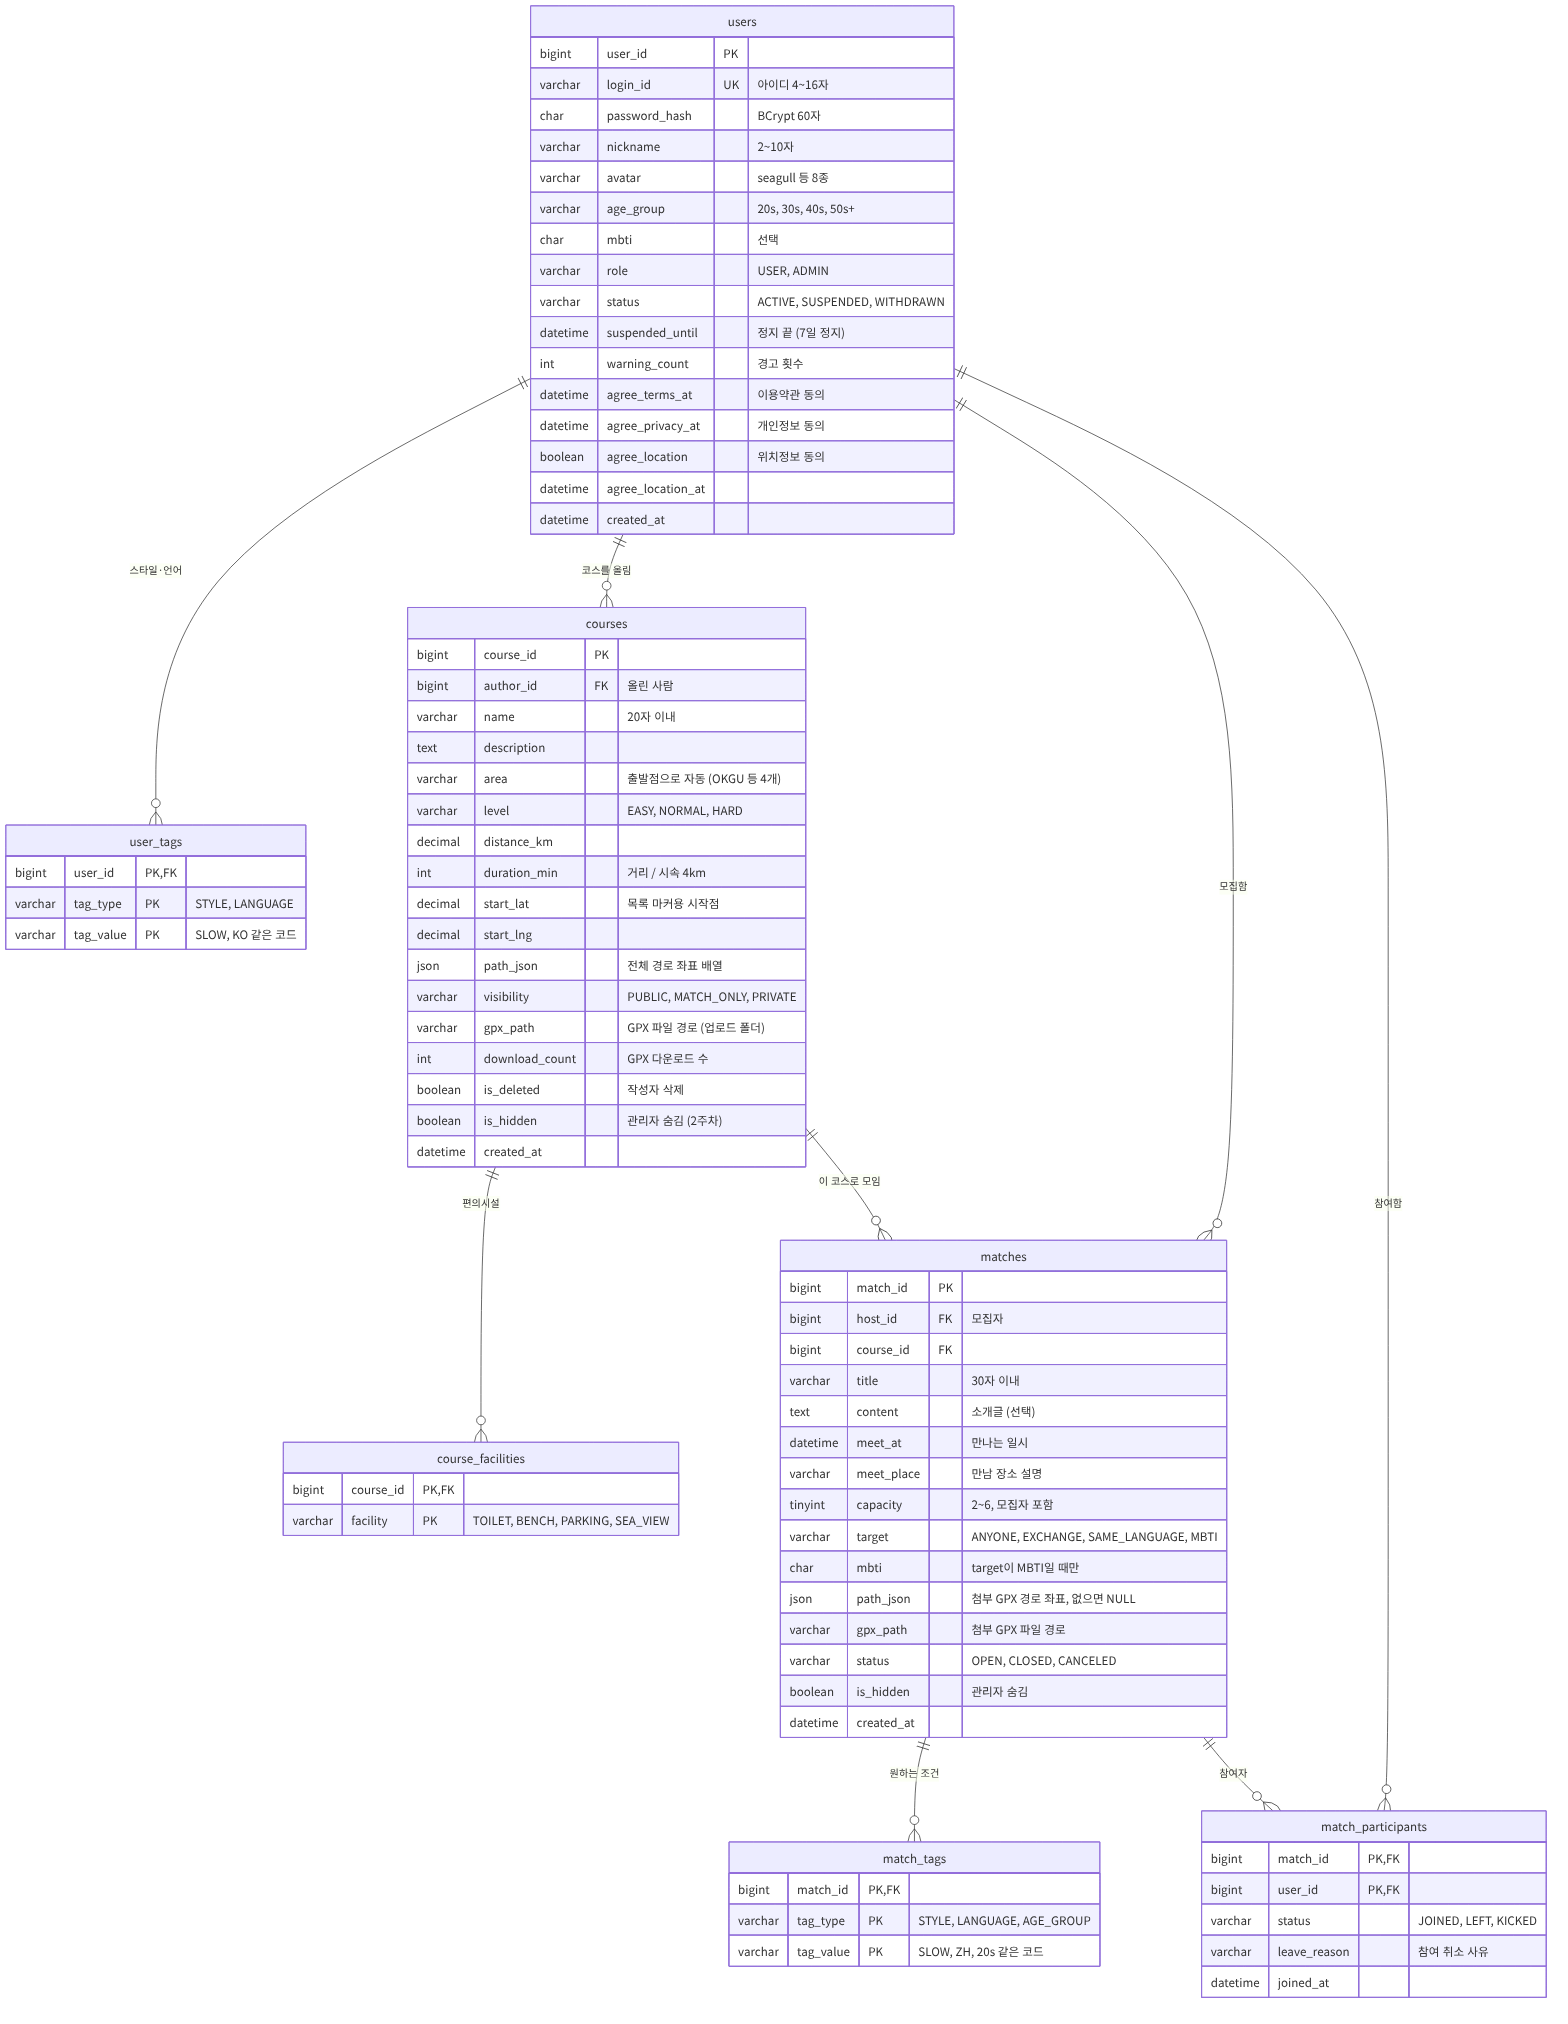
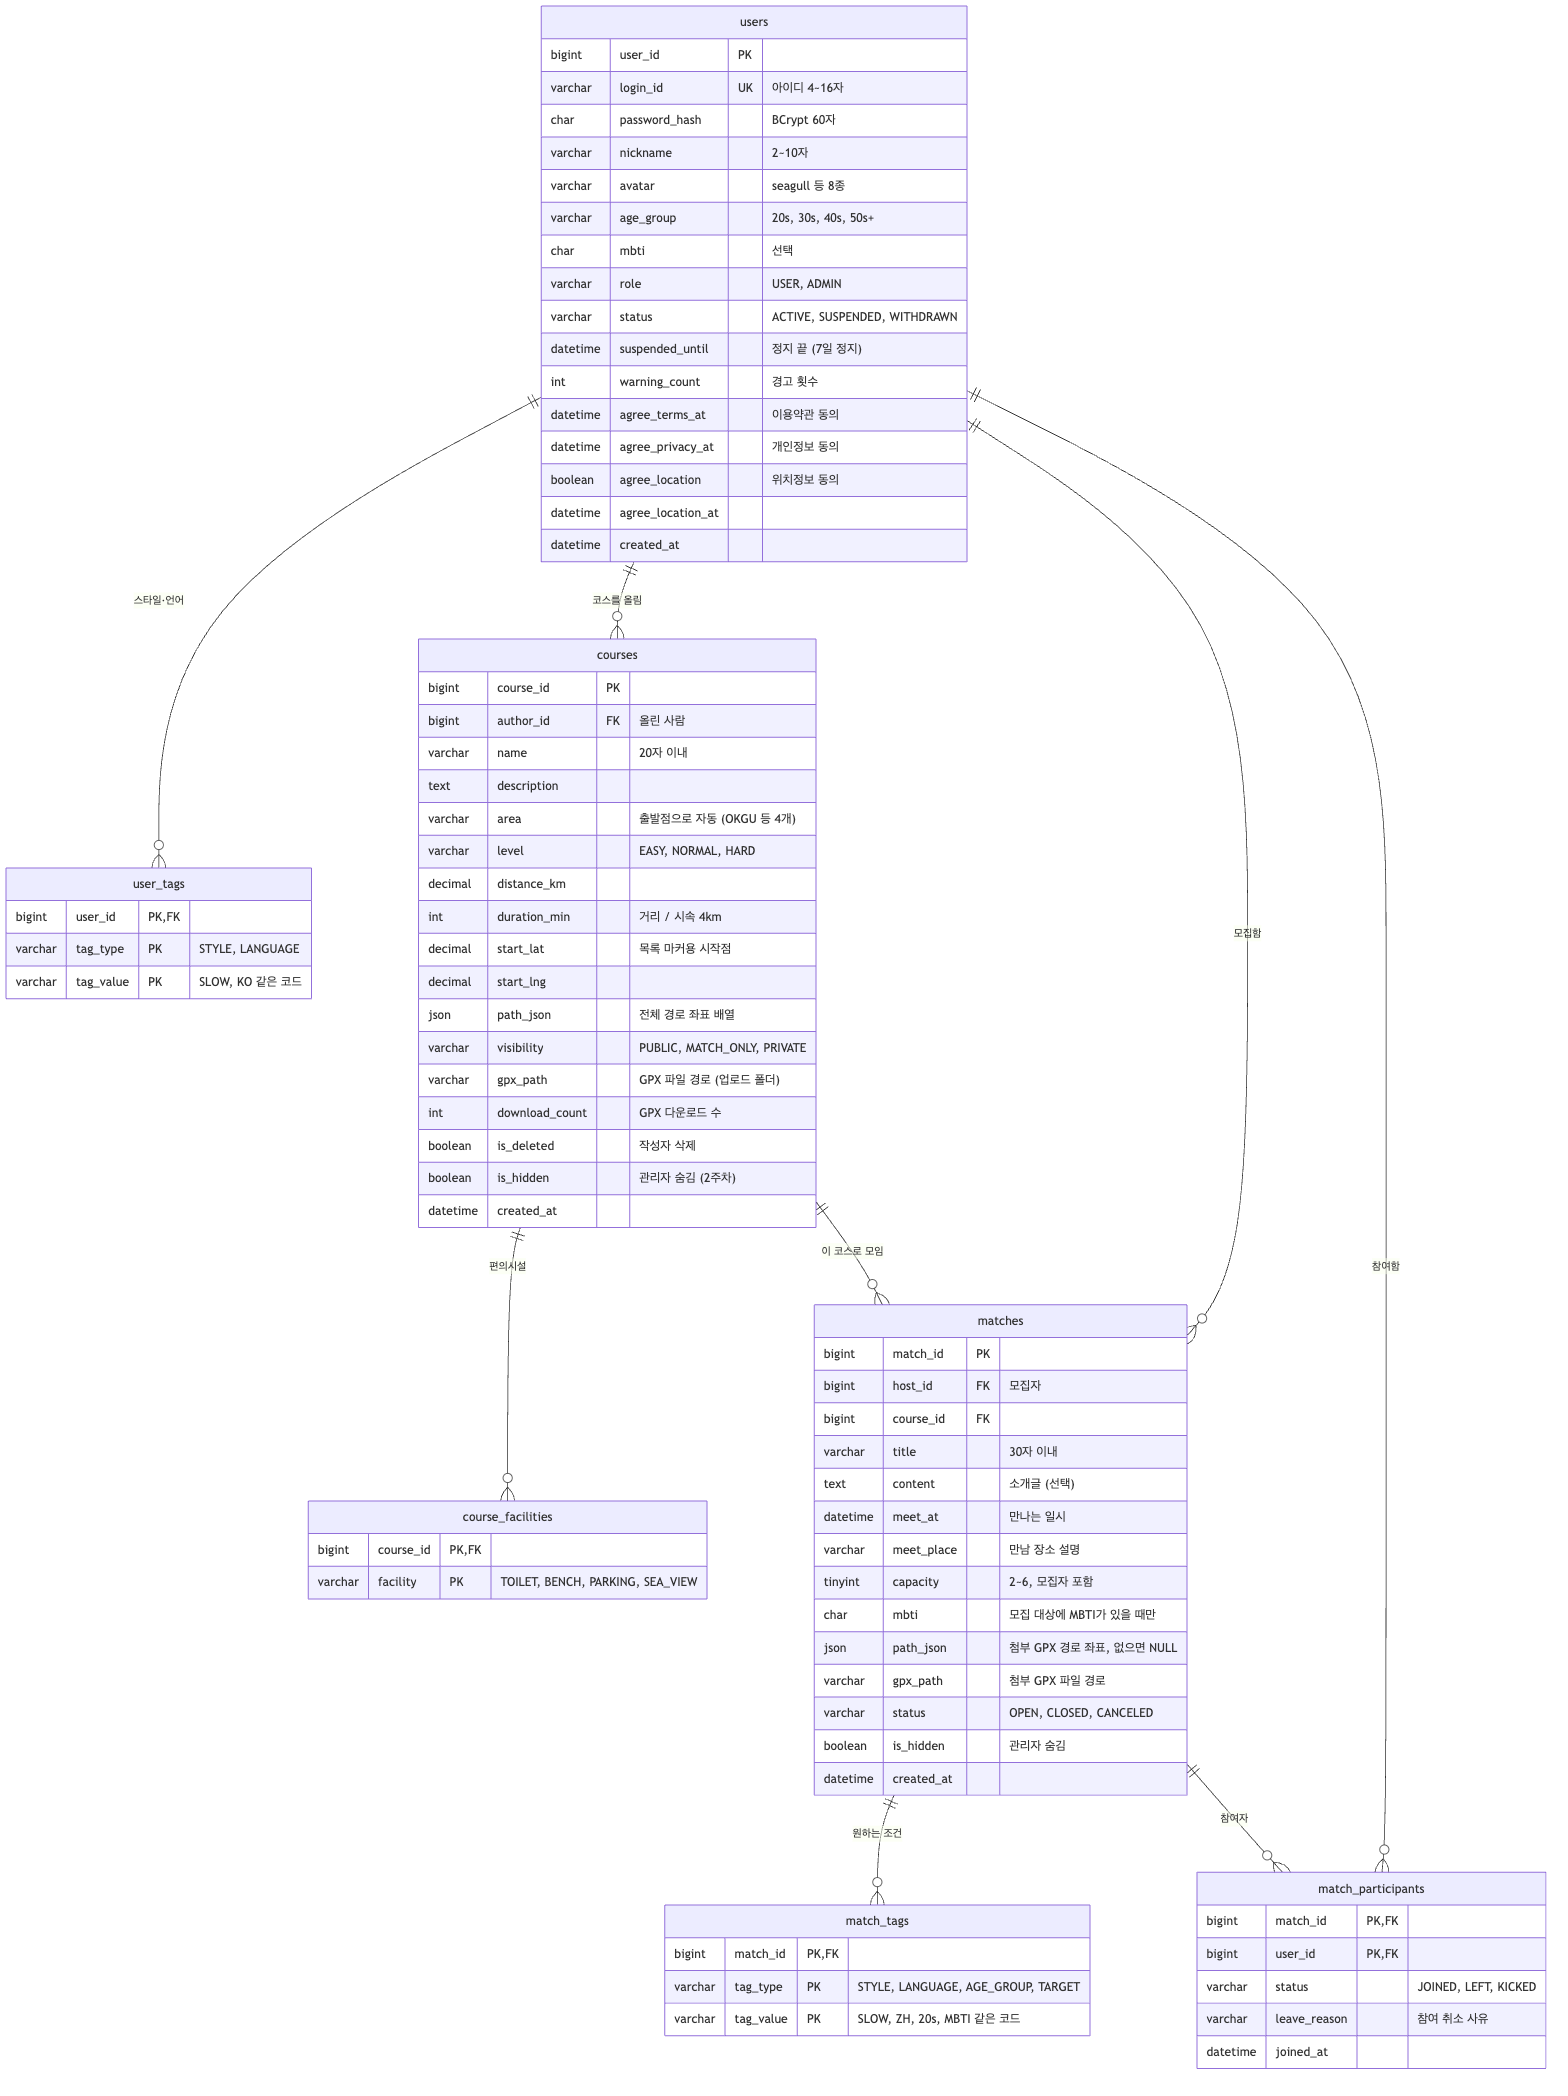
chore(db): PR #33 DB 옮기기 파일 추가 — 내 데이터 지키면서 새 구조로, ERD · 안내 최신화
PR #33 에서 모집 대상 저장 위치가 matches.target 칸에서 match_tags 태그로 바뀌었습니다.
코드는 git pull 로 받아지지만 DB 는 각자 PC 에 있어서 직접 옮겨야 합니다.
그동안 커밋 메시지의 SQL 을 복사해야 했는데, 이제 파일을 열어 실행하면 됩니다.

이 커밋에 코드 동작 변경은 없습니다. SQL 파일, 문서, ERD 그림만 바뀝니다.

■ 팀원이 할 일 (둘 중 하나만, 옮긴 적 없는 사람만)

방법 1. 시험 데이터뿐이다 → 이전과 같이 초기화
  db/schema.sql 실행 → db/seed.sql 실행
  내 DB 의 데이터는 모두 지워지고 시험 데이터로 돌아갑니다

방법 2. 내 데이터를 지키고 싶다 → 이 파일 한 번 실행
  Workbench: File → Open SQL Script… → db/migrate-week3-targets.sql → ⚡
  실행 전에 백업을 권합니다

어느 쪽이든 끝나면 백엔드를 다시 시작합니다.
npm install 과 설정 파일 수정은 필요 없습니다.

■ 안 하면 생기는 일

코드만 새것 + DB 는 옛 구조
  동행 글쓰기 500: Field 'target' doesn't have a default value
  목록은 열리지만 모든 글이 "누구나"로 보임

DB 만 새것 + 서버는 옛 코드
  동행 목록 · 상세 500: Unknown column 'm.target'
  git pull 후 백엔드 재시작으로 해결

■ db/migrate-week3-targets.sql 이 하는 일

1. match_tags 가 TARGET 값을 받을 수 있게 규칙을 고침
2. matches.target 값을 match_tags 로 옮겨 적음 (ANYONE 은 태그 없음 = 누구나)
3. 필요 없어진 matches.target 칸과 규칙 2개를 지움

회원 · 코스 · 동행 · 참여 · 후기 · 신고 · 댓글 · 스탬프는 그대로입니다.
두 번 실행해도 2번에서 Unknown column 오류로 멈추고 데이터는 그대로입니다.
PR #33 이전 구조의 DB 에만 맞습니다. 이미 새 schema.sql 을 실행한 DB 에는 필요 없습니다.

■ 바뀐 파일

db/migrate-week3-targets.sql (새 파일)    옮기기 SQL
db/README.md                              파일 표와 "3) 테이블과 테스트 데이터 넣기"에 안내 추가
docs/troubleshooting.md                   위 오류 2개의 원인과 해결 추가
docs/images/erd-week1.mmd · .png          matches.target 삭제, match_tags 에 TARGET 추가
                                          (PNG 는 mermaid-cli 11.4.2 로 다시 그림. 글꼴이 예전 그림과 조금 다름)

■ 확인
[…]

diff --git a/docs/troubleshooting.md b/docs/troubleshooting.md
@@ -38,6 +38,8 @@
 | 인터넷 예제의 **`com.fasterxml.jackson.databind … cannot be resolved`** (`ObjectMapper` 등) | 스프링부트 4는 Jackson 3을 써서 패키지 이름이 바뀜 | `tools.jackson.databind.…` 로 바꾸기 (어노테이션 `com.fasterxml.jackson.annotation`은 그대로) |
 | `build.gradle`에 **`spring-boot-starter-web`** 을 넣었더니 경고 | 스프링부트 4에서 이름이 바뀜 | `spring-boot-starter-webmvc` 로 (Initializr로 만들면 알아서 들어감) |
 | 일부 API만 **500**, 로그에 **`Name for argument of type [...] not specified`** (실제로 겪음) | `@RequestParam` · `@PathVariable`에 이름을 안 적음. VS Code가 컴파일한 클래스에는 변수 이름 정보가 없음 (`bootRun`으로 켰어도 VS Code가 다시 컴파일하면 발생) | 이름 적기: `@PathVariable("id") long id`, `@RequestParam(name = "q", required = false) String q`. 급하면 `./gradlew clean bootRun` |
+| 동행 글쓰기만 **500**, 로그에 **`Field 'target' doesn't have a default value`** · 모든 글이 "누구나"로 보임 (실제로 겪을 수 있음) | PR #33 이후 코드를 받았는데 DB는 옛 구조 | 내 데이터를 지키려면 `db/migrate-week3-targets.sql` 한 번 실행, 시험 데이터뿐이면 `schema.sql` → `seed.sql`. 그다음 백엔드 재시작 ([DB 안내 3)](../db/README.md#3-테이블과-테스트-데이터-넣기-테이블이-바뀔-때마다-다시)) |
+| 동행 목록 · 상세가 **500**, 로그에 **`Unknown column 'm.target'`** | DB는 새 구조인데 서버가 옛 코드로 켜져 있음 | `git pull` 후 백엔드 재시작 |
 | **모든 API가 404**, `/api/hello`도 404 (실제로 겪음) | 8080에 **다른 스프링 프로젝트**가 켜져 있음. VS Code에서 다른 프로젝트를 실행해 둔 경우 | 그 프로젝트를 끄고 `bootRun`. `/api/hello`에 `"landmarks":8`이 나오면 산책시루 서버 |
 | 고친 코드가 반영이 안 됨 | 서버가 예전 코드로 계속 돌고 있음 | Ctrl+C로 끄고 다시 `bootRun` |
 | `bootRun`이 **`80% EXECUTING`** 에서 멈춤 | 멈춘 게 아니라 서버가 켜져 있는 상태 (실제로 겪음) | 로그에 `Started SanchaekApplication`이 있으면 정상. 그대로 두고 브라우저에서 확인, 끌 때 Ctrl+C |

diff --git a/db/README.md b/db/README.md
@@ -10,6 +10,7 @@ DB는 **각자 PC의 MySQL**을 씁니다. 배포는 하지 않습니다 (시연
 | `schema.sql` | 테이블 만들기. **실행하면 기존 테이블과 데이터가 전부 지워지고 새로 만들어집니다** |
 | `seed.sql` | 테스트 데이터 (회원 7명, 코스 4개, 동행 6개, 랜드마크 8곳, 후기 6개, 신고 4개 …). `schema.sql` 다음에 실행 |
 | `check.sql` | 세팅 확인. 7줄 모두 `OK`면 성공 |
+| `migrate-week3-targets.sql` | PR #33 이전 DB를 **데이터를 지우지 않고** 새 구조로 옮기기. 한 번만 실행 ([3)](#3-테이블과-테스트-데이터-넣기-테이블이-바뀔-때마다-다시)) |
 | `sample-uploads/` | 테스트 데이터의 후기 사진 2장과 GPX 파일 5개. 각자 PC의 업로드 폴더로 복사해서 씁니다 ([5)](#5-업로드-폴더-만들기-후기-사진--gpx)) |
 
 ## 목차
@@ -325,6 +326,9 @@ Workbench에서 **File → Open SQL Script…** → `C:\dev\jspTeam\Team_walk\db
 
 > ⚠ **순서가 중요합니다:** `schema.sql`(테이블 만들기) → `seed.sql`(테스트 데이터).<br>
 > `schema.sql`을 실행하면 **기존 테이블과 데이터가 전부 지워지고** 새로 만들어집니다. 개발 중에는 테스트 데이터뿐이라 괜찮습니다.
+
+> 💡 **내 데이터를 지키고 싶으면 (PR #33 이전 DB):** `schema.sql` · `seed.sql` 대신 **`migrate-week3-targets.sql`** 을 같은 방법으로 **한 번만** 실행하고 백엔드를 다시 시작합니다.<br>
+> 모집 대상을 `matches.target` 칸에서 `match_tags` 태그로 옮기는 파일입니다. 회원 · 코스 · 동행 · 후기는 그대로 남습니다.
 
 ### 4) 확인
 
